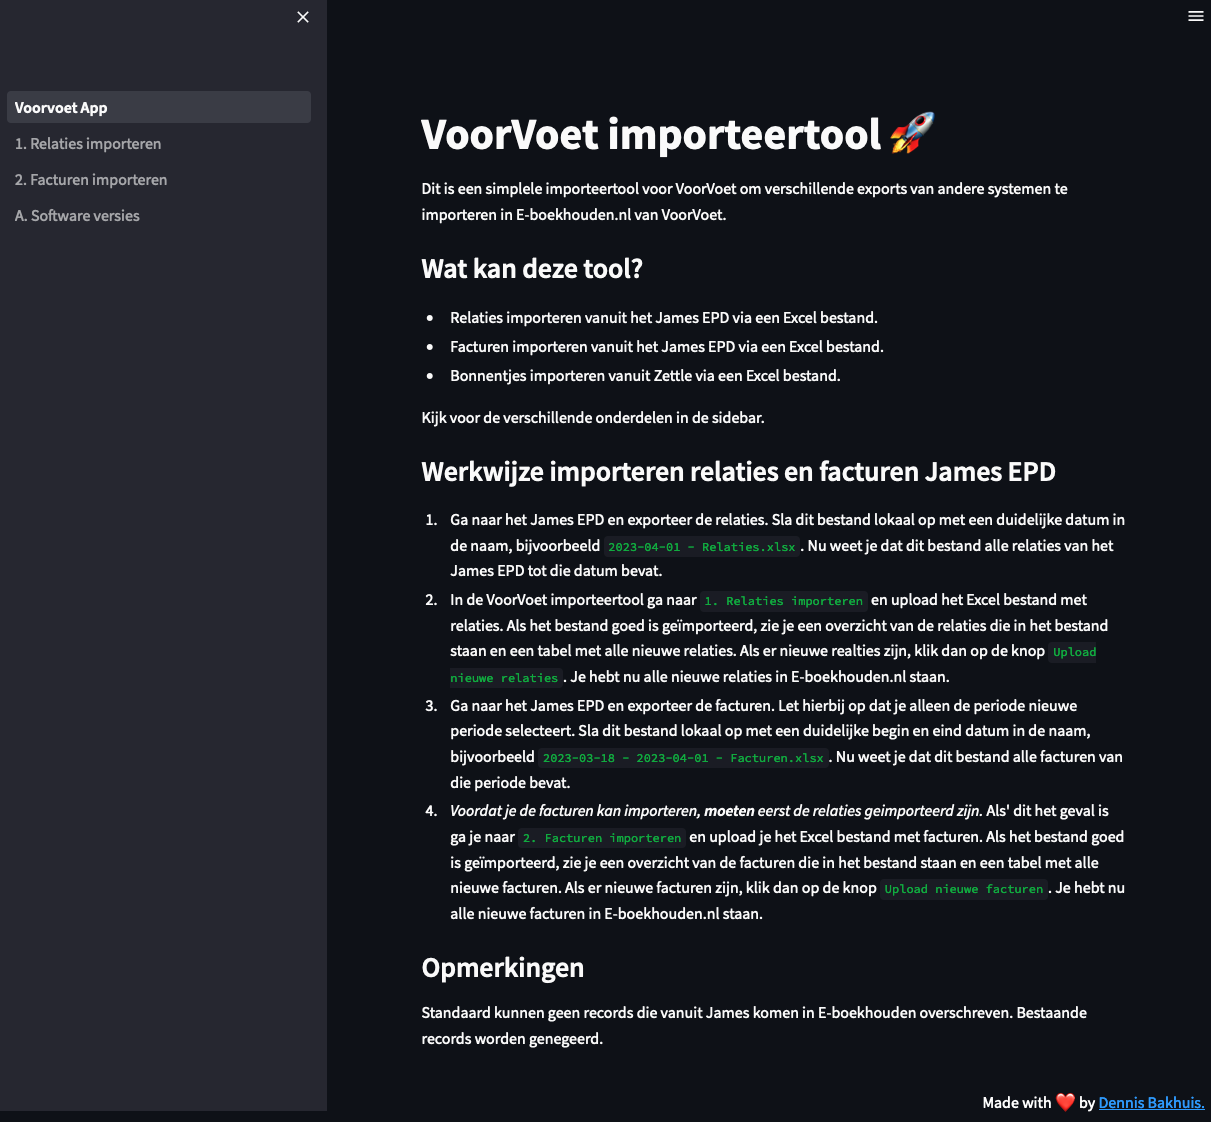
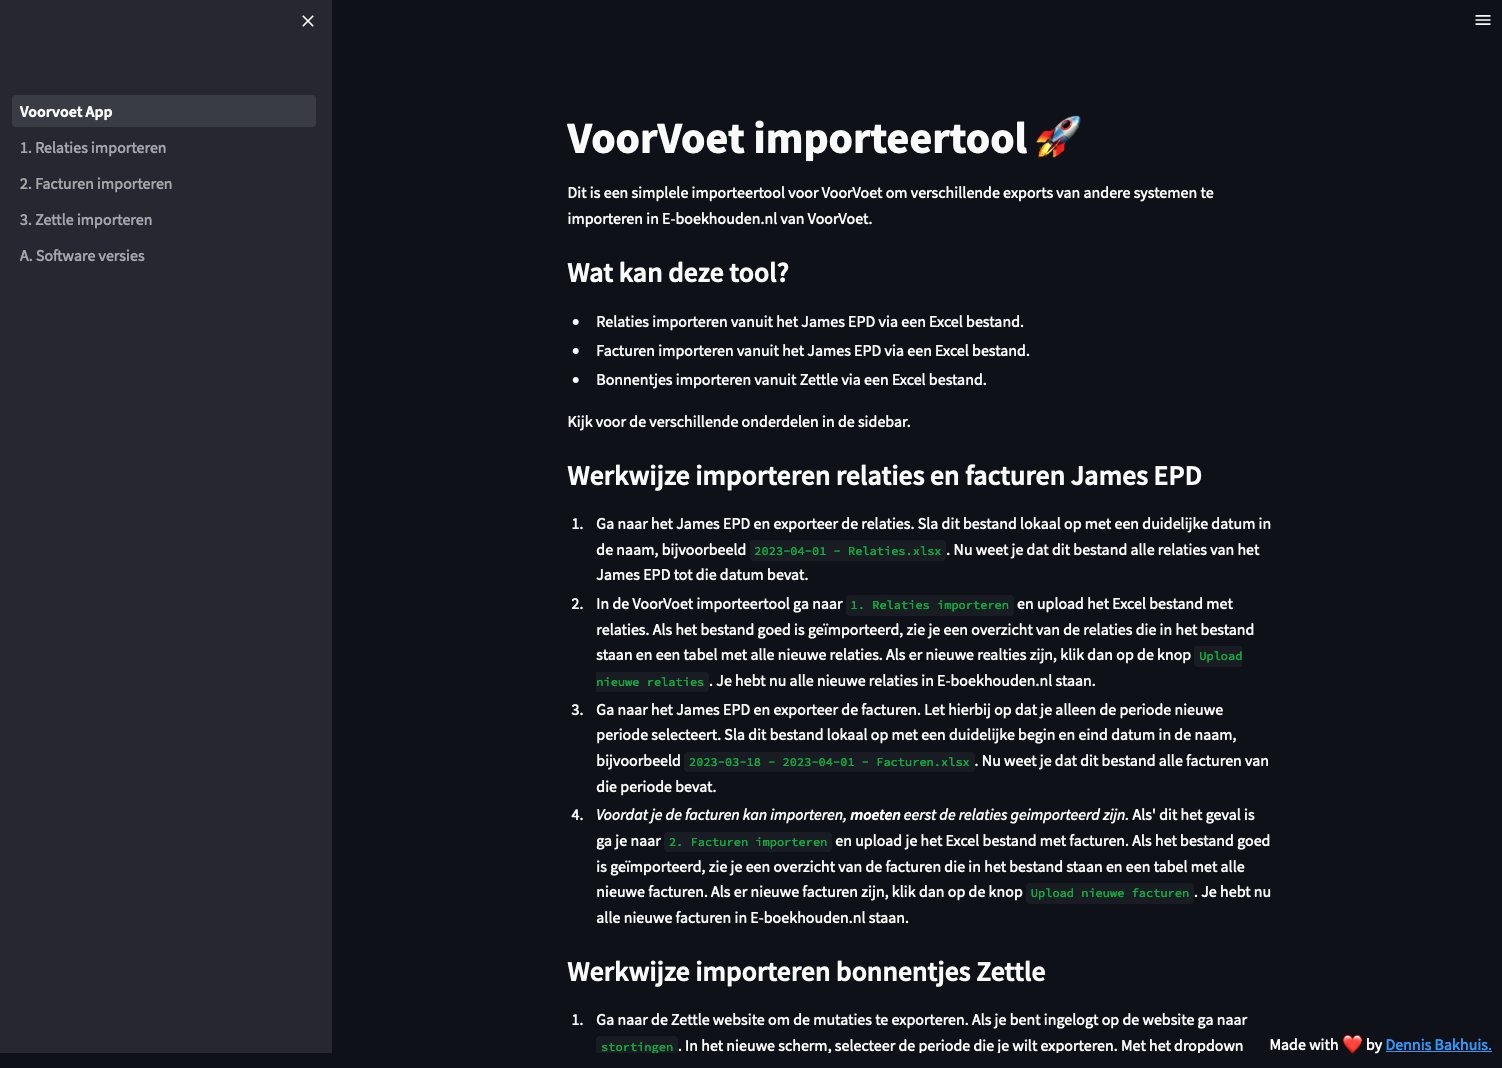
updated documentation in tool

diff --git a/voorvoet_app/Voorvoet_App.py b/voorvoet_app/Voorvoet_App.py
@@ -40,8 +40,34 @@ st.markdown(
     staan en een tabel met alle nieuwe facturen. Als er nieuwe facturen zijn, klik dan op de knop
     `Upload nieuwe facturen`. Je hebt nu alle nieuwe facturen in E-boekhouden.nl staan.
 
+    ### Werkwijze importeren bonnentjes Zettle
+    1. Ga naar de Zettle website om de mutaties te exporteren. Als je bent ingelogt op de website
+    ga naar `stortingen`. In het nieuwe scherm, selecteer de periode die je wilt exporteren. Met
+    het dropdown menu transactietype hoef je niets te doen, je downloadt alle types. klik vervolgens
+    op `exporteer naar excel`. Sla dit bestand lokaal op met een duidelijke begin en eind datum in
+    de naam, bijvoorbeeld `2023-03-01 - 2023-04-01 - Mutaties.xlsx`. Nu weet je dat dit bestand alle
+    mutaties van die periode bevat.
+    2. In de VoorVoet importeertool ga naar `3. Zettle importeren` en upload het Excel bestand met
+    mutaties. Als het bestand goed is geïmporteerd, krijg je het aantal transacties te zien die in
+    het bestand staan. Vervolgens wordt vanuit de transacties een lijst met mutaties gemaakt. Dit
+    kunnen er meer zijn omdat de transactie 'geld storten op bankrekening' overeen komt met twee
+    mutaties in E-boekhouden.nl. Nu wordt er automatisch een overzicht gemaakt van alle mutaties
+    die al in E-boekhouden.nl staan en een overzicht van nog toe te voegen mutaties. Kijk even goed
+    of dit klopt. Als je akkoord bent, klik dan op de knop `Upload nieuwe mutaties`. Je hebt nu alle
+    nieuwe mutaties in E-boekhouden.nl staan.
+    3. Alle pinbetalingen zijn geimporteerd als `geld ontvangen` mutaties op rekening 8140. Deze
+    hadden eigenlijk `factuurbetaling ontvangen` moeten zijn. Omdat de tool niet automatisch
+    de betaling kan koppelen aan de juiste factuur, is dit niet gebeurd. Je moet dit nog handmatig
+    doen. In E-boekhouden.nl ga naar `boekhouden`, `overzichten` en dan naar `winst/verliest` en
+    zoek naar de Zettle tijdelijk rekening  `8140`. Hier staan alle pinbetalingen. Klik op elke
+    pinbetaling en koppel deze aan de juiste factuur. Aan het eind van dit process hoort deze
+    tijdelijke rekening leeg te zijn.
+
+    Hopelijk kunnen we in toekomst Zettle vervangen voor een betere pinprovider.
+
     ### Opmerkingen
-    Standaard worden geen records in E-boekhouden overschreven. Bestaande records worden genegeerd.
+    Standaard worden geen records in E-boekhouden overschreven. Bestaande records worden genegeerd maar
+    dit wordt tijdens de procedure ook duidelijk aangegeven.
 """
 )
 

diff --git a/voorvoet_app/pages/3_3._Zettle_importeren.py b/voorvoet_app/pages/3_3._Zettle_importeren.py
@@ -114,6 +114,16 @@ if uploaded_zettle_file is not None:
                 """
                 ### Alle nieuwe transacties zijn geimporteerd 🎉
                 Ze zijn nu direct zichtbaar in E-boekhouden.nl.
+
+                Alle pinbetalingen zijn geimporteerd als `geld ontvangen` mutaties op rekening 8140. Deze
+                hadden eigenlijk `factuurbetaling ontvangen` moeten zijn. Omdat de tool niet automatisch
+                de betaling kan koppelen aan de juiste factuur, is dit niet gebeurd. Je moet dit nog handmatig
+                doen. In E-boekhouden.nl ga naar `boekhouden`, `overzichten` en dan naar `winst/verliest` en
+                zoek naar de Zettle tijdelijk rekening  `8140`. Hier staan alle pinbetalingen. Klik op elke
+                pinbetaling en koppel deze aan de juiste factuur. Aan het eind van dit process hoort deze
+                tijdelijke rekening leeg te zijn.
+
+                Succes! Hopelijk kunnen we dit in toekomst toch automatiseren.
             """
             )
 
